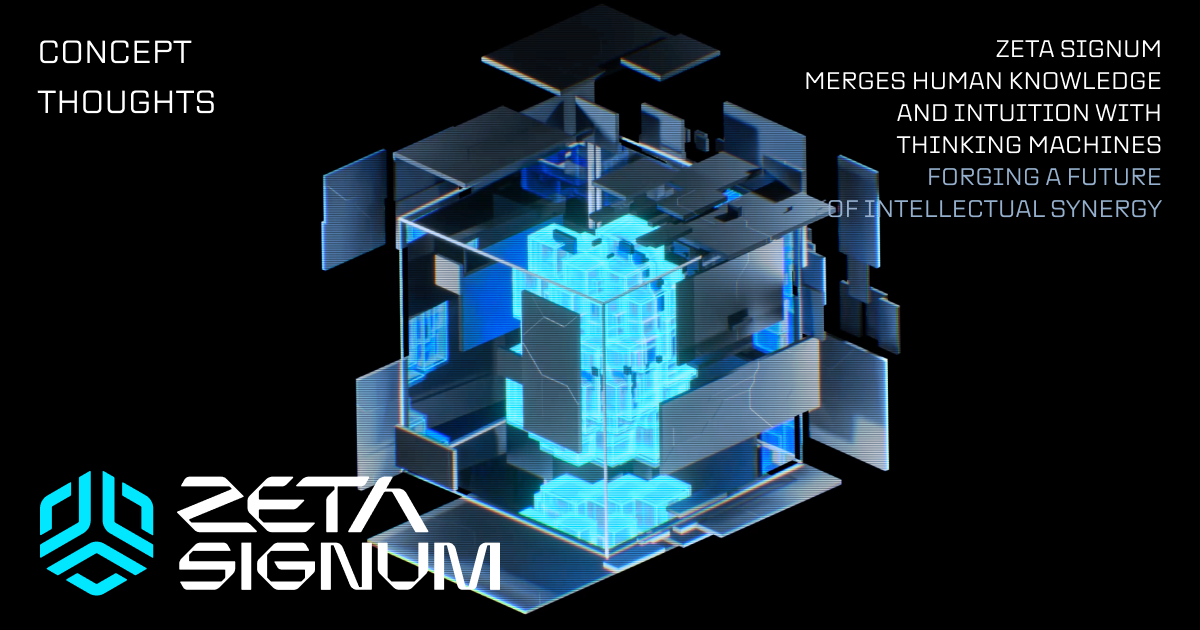
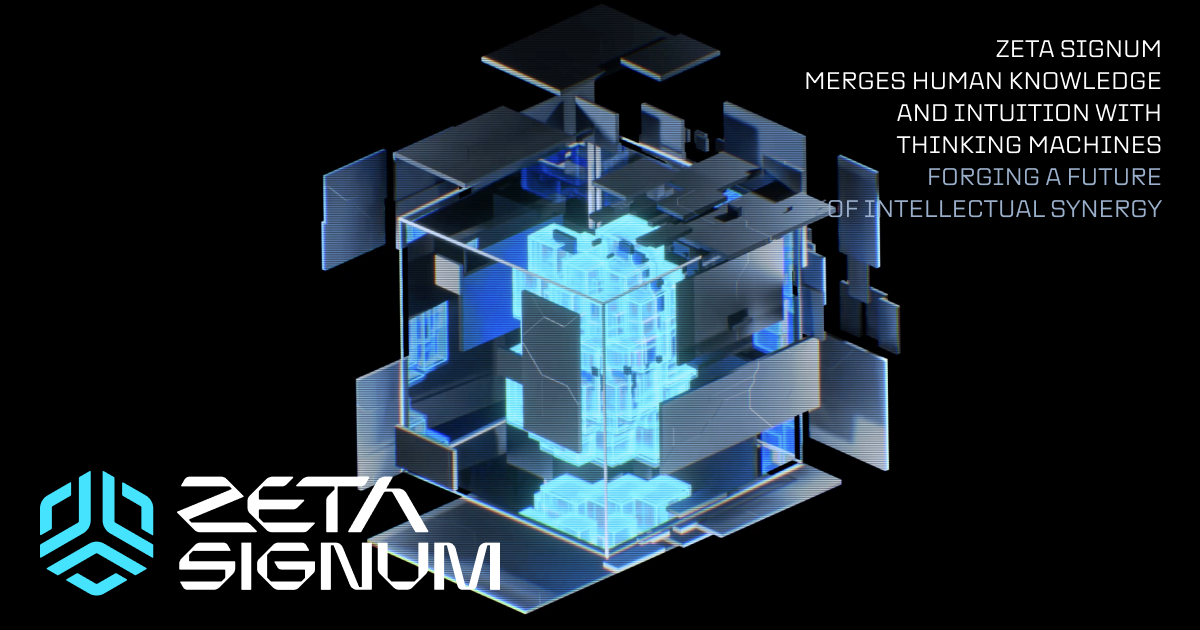
Ver 1.0: Delete words and year from layout

diff --git a/src/sass/style.sass b/src/sass/style.sass
@@ -49,27 +49,12 @@ a:hover
 		height: 100vh
 		height: 100svh
 
-.words, .descr, .logo, .footer, .footer-contact, .footer-year
+.descr, .logo, .footer, .footer-contact
 	font-family: 'TTLakesNeue'
 	text-transform: uppercase
 	position: absolute
 	display: flex
 	z-index: 10
-
-.words
-	font-size: math.div(28, 1440) * 100 * 1vw
-	line-height: math.div(36, 1440) * 100 * 1vw
-	top: math.div(32, 1440) * 100 * 1vw
-	left: math.div(38, 1440) * 100 * 1vw
-	flex-direction: column
-	@include mobile-breakpoint
-		font-size: math.div(16, 320) * 100 * 1vw
-		line-height: math.div(20, 320) * 100 * 1vw
-		top: math.div(12, 320) * 100 * 1vw
-		left: math.div(15, 320) * 100 * 1vw
-	.words-item
-		margin-bottom: math.div(0, 1440) * 100 * 1vw
-		opacity: 0
 
 .descr
 	font-size: math.div(24, 1440) * 100 * 1vw
@@ -80,7 +65,7 @@ a:hover
 	@include mobile-breakpoint
 		font-size: math.div(16, 320) * 100 * 1vw
 		line-height: math.div(20, 320) * 100 * 1vw
-		top: math.div(63, 320) * 100 * 1vw
+		top: math.div(14, 320) * 100 * 1vw
 		right: math.div(15, 320) * 100 * 1vw
 	.descr-item
 		text-align: right
@@ -94,7 +79,7 @@ a:hover
 	width: math.div(360, 1440) * 100 * 1vw
 	@include mobile-breakpoint
 		left: math.div(16, 320) * 100 * 1vw
-		bottom: math.div(50, 320) * 100 * 1vw
+		bottom: math.div(38, 320) * 100 * 1vw
 		width: math.div(220, 320) * 100 * 1vw
 
 .footer
@@ -113,14 +98,13 @@ a:hover
 		left: math.div(39, 1440) * 100 * 1vw
 		bottom: math.div(35, 1440) * 100 * 1vw
 		@include mobile-breakpoint
-			flex-direction: column
 			left: math.div(15, 320) * 100 * 1vw
 			bottom: math.div(12, 320) * 100 * 1vw
 		a
 			position: relative
 			margin-left: math.div(40, 1440) * 100 * 1vw
 			@include mobile-breakpoint
-				margin-left: math.div(14, 320) * 100 * 1vw
+				margin-left: math.div(24, 320) * 100 * 1vw
 		a::before
 			position: absolute
 			top: math.div(6, 1440) * 100 * 1vw
@@ -149,12 +133,6 @@ a:hover
 		a:hover::after
 			transform: scaleX(1)
 			transform-origin: bottom left
-	.footer-year
-		right: math.div(39, 1440) * 100 * 1vw
-		bottom: math.div(35, 1440) * 100 * 1vw
-		@include mobile-breakpoint
-			right: math.div(15, 320) * 100 * 1vw
-			bottom: math.div(12, 320) * 100 * 1vw
 
 .back
 	position: absolute
@@ -181,15 +159,11 @@ a:hover
 		transform: translate(-50%,-50%)
 		width: math.div(860, 1440) * 100 * 1vw
 		height: math.div(860, 1440) * 100 * 1vw
-		@include mobile-breakpoint
-			top: calc( 50% + (math.div(30, 320) * 100 * 1vw) )
-			width: math.div(380, 320) * 100 * 1vw
-			height: math.div(380, 320) * 100 * 1vw
 	.mobile-back
 		position: absolute
 		width: math.div(300, 320) * 100 * 1vw
 		height: math.div(300, 320) * 100 * 1vw
 		left: 50%
-		top: calc( 50% + (math.div(30, 320) * 100 * 1vw) )
+		top: calc( 50% + (math.div(10, 320) * 100 * 1vw) )
 		transform: translate(-50%,-50%)
 

diff --git a/src/js/script.js b/src/js/script.js
@@ -30,33 +30,6 @@ window.addEventListener('load', () => {
 		path: 'lottie/logo.json' // the path to the animation json
 	});
 
-	// words animation
-	let wordsAnime = anime({
-		targets: '.words-item',
-		keyframes: [
-			{
-				duration: ANIME_FIRST_DELAY,
-				opacity: 0,
-				translateY: -20,
-			},
-			{
-				duration: 0,
-				opacity: 0,
-				translateY: -20,
-			},
-			{
-				duration: TEXT_ANIME_DURATION,
-				opacity: 1,
-				translateY: 0,
-			}
-		],
-		easing: 'linear',
-		delay: anime.stagger(TEXT_ANIME_STAGGER),
-		autoplay: true,
-		complete: () => {
-			descrAnime.play();
-		}
-		});
 	// descr animation
 	let descrAnime = anime({
 		targets: '.descr-item',
@@ -74,7 +47,7 @@ window.addEventListener('load', () => {
 		],
 		easing: 'linear',
 		delay: anime.stagger(TEXT_ANIME_STAGGER),
-		autoplay: false,
+		autoplay: true,
 		complete: () => {
 			footerAnime.play();
 		}
